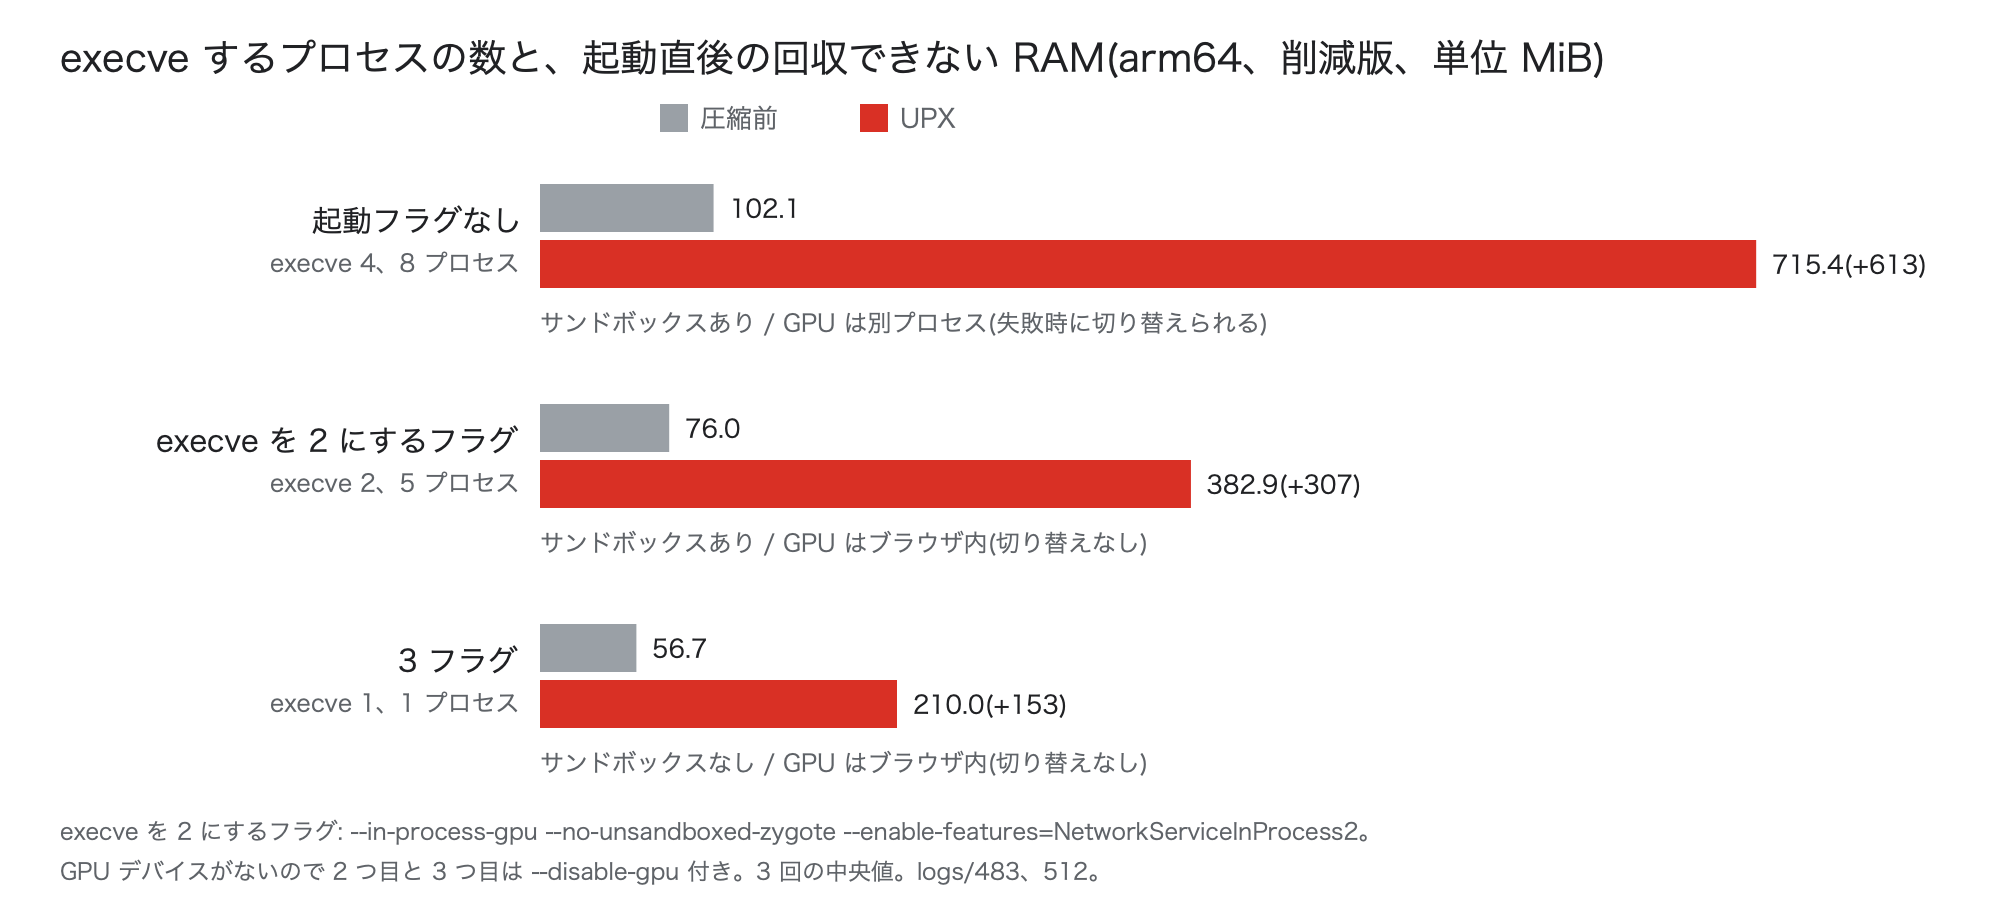
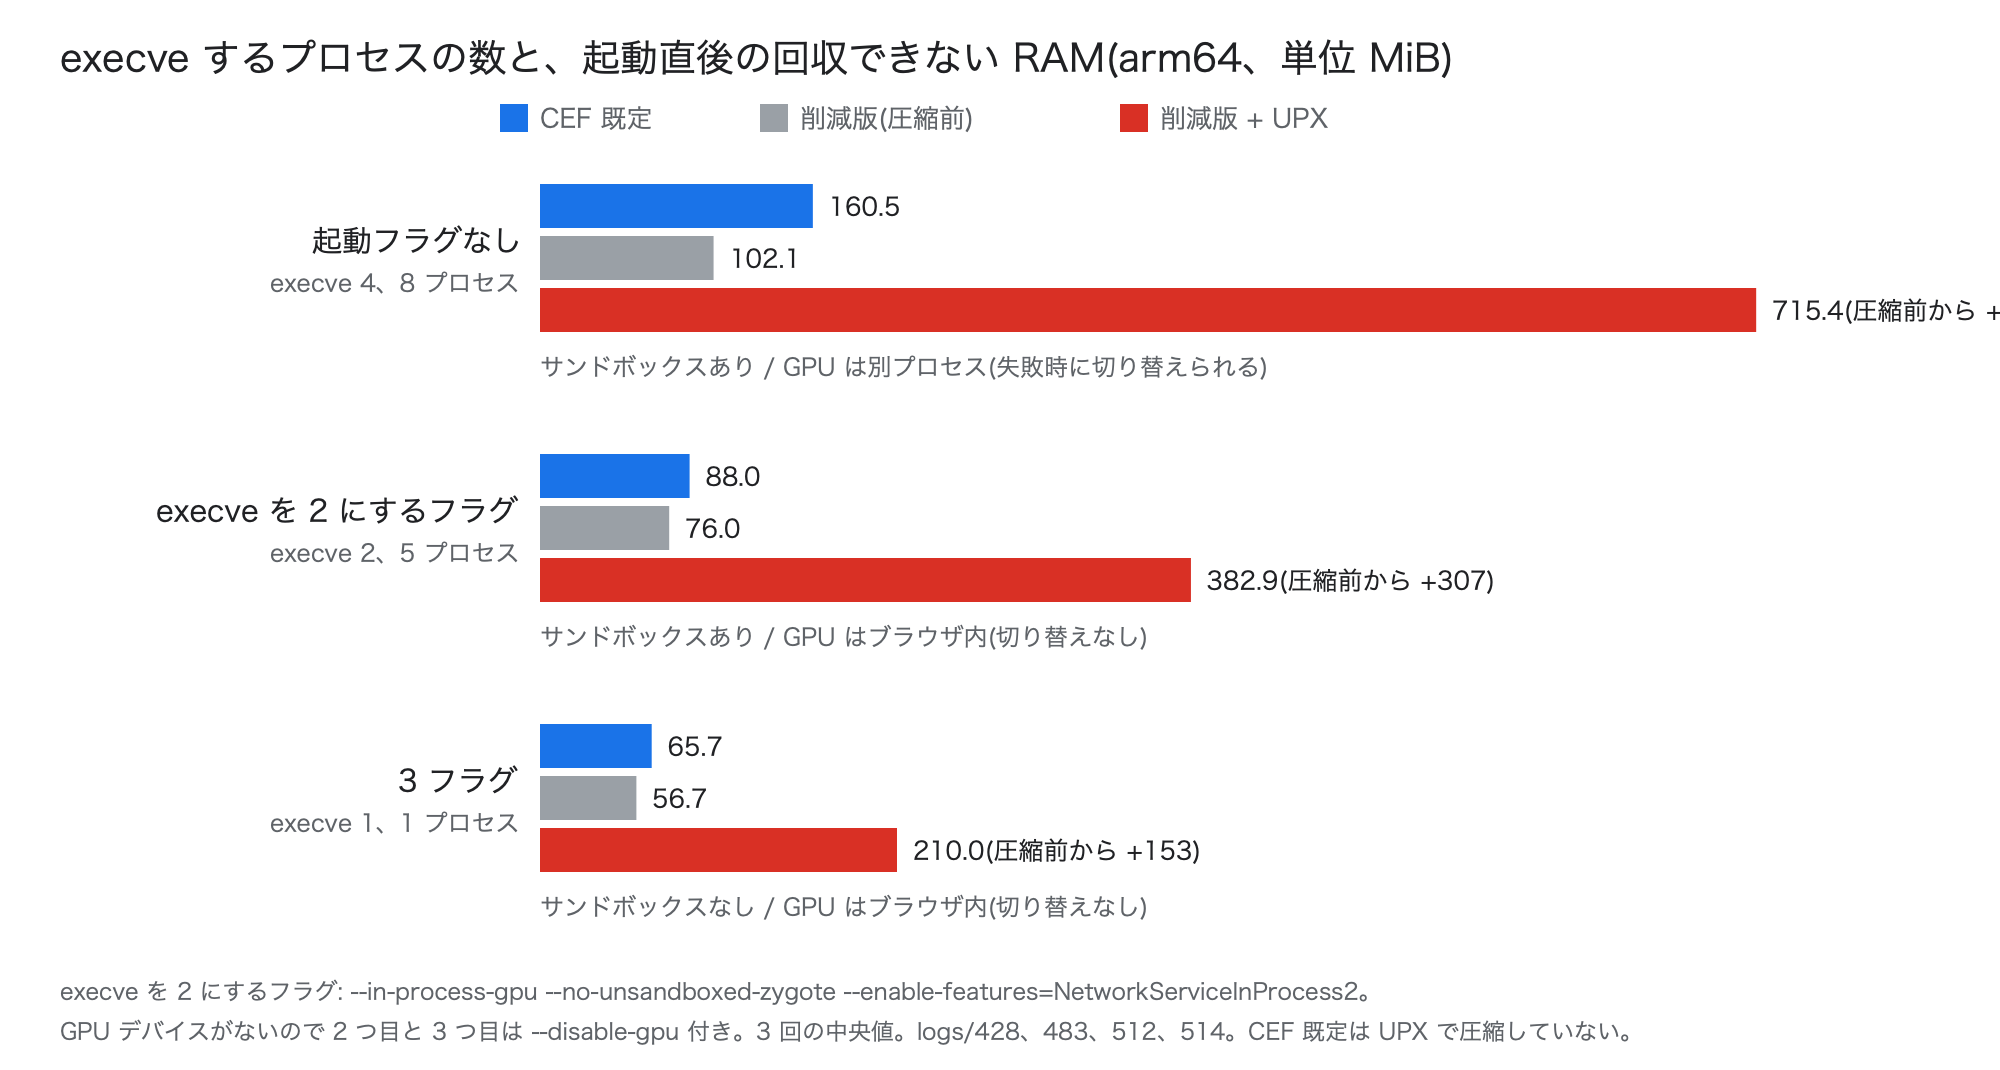
UPX の章に CEF 既定との比較を追加(図 10、14 を更新)

diff --git a/scripts/figs_upx2.py b/scripts/figs_upx2.py
@@ -89,19 +89,38 @@ b += [t(30, 300, 'UPX が縮めるのは libcef.so(186.2 → 86.0MB)と cefsimpl
       t(30, 322, 'CEF 既定の青は libcef.so と cefsimple の合計(275.1MB)。UPX 版の配布物は CEF 既定の 26% になる。', 13)]
 save('fig13-upx-rom.svg', svg(1000, 340, b))
 
-# ---- 図 14: execve するプロセスの数と回収できない RAM(起動直後)
-b = [t(30, 36, 'execve するプロセスの数と、起動直後の回収できない RAM(arm64、削減版、単位 MiB)', 19, bold=True)]
-b += [r(330, 52, 14, 14, GRY), t(350, 64, '圧縮前', 13, fill=SUB), r(430, 52, 14, 14, RED), t(450, 64, 'UPX', 13, fill=SUB)]
-rows = [('起動フラグなし', 'execve 4、8 プロセス', 102.1, 715.4, 'サンドボックスあり / GPU は別プロセス(失敗時に切り替えられる)'),
-        ('execve を 2 にするフラグ', 'execve 2、5 プロセス', 76.0, 382.9, 'サンドボックスあり / GPU はブラウザ内(切り替えなし)'),
-        ('3 フラグ', 'execve 1、1 プロセス', 56.7, 210.0, 'サンドボックスなし / GPU はブラウザ内(切り替えなし)')]
+# ---- 図 14: execve するプロセスの数と回収できない RAM(起動直後)。CEF 既定も並べる
+b = [t(30, 36, 'execve するプロセスの数と、起動直後の回収できない RAM(arm64、単位 MiB)', 19, bold=True)]
+b += [r(250, 52, 14, 14, BLUE), t(270, 64, 'CEF 既定', 13, fill=SUB), r(380, 52, 14, 14, GRY), t(400, 64, '削減版(圧縮前)', 13, fill=SUB), r(560, 52, 14, 14, RED), t(580, 64, '削減版 + UPX', 13, fill=SUB)]
+rows = [('起動フラグなし', 'execve 4、8 プロセス', 160.5, 102.1, 715.4, 'サンドボックスあり / GPU は別プロセス(失敗時に切り替えられる)'),
+        ('execve を 2 にするフラグ', 'execve 2、5 プロセス', 88.0, 76.0, 382.9, 'サンドボックスあり / GPU はブラウザ内(切り替えなし)'),
+        ('3 フラグ', 'execve 1、1 プロセス', 65.7, 56.7, 210.0, 'サンドボックスなし / GPU はブラウザ内(切り替えなし)')]
 sc = 0.85; X0 = 270
-for i, (lab, sub, a, u, note) in enumerate(rows):
-    y = 92 + i * 110
-    b += [t(X0 - 12, y + 24, lab, 15, 'end', bold=True), t(X0 - 12, y + 44, sub, 12, 'end', SUB)]
-    b += [r(X0, y, a * sc, 24, GRY), t(X0 + a * sc + 8, y + 17, f'{a}', 12.5)]
-    b += [r(X0, y + 28, u * sc, 24, RED), t(X0 + u * sc + 8, y + 45, f'{u}(+{u - a:.0f})', 12.5, bold=True)]
-    b += [t(X0, y + 74, note, 12, fill=SUB)]
-b += [t(30, 420, 'execve を 2 にするフラグ: --in-process-gpu --no-unsandboxed-zygote --enable-features=NetworkServiceInProcess2。', 11.5, fill=SUB),
-      t(30, 440, 'GPU デバイスがないので 2 つ目と 3 つ目は --disable-gpu 付き。3 回の中央値。logs/483、512。', 11.5, fill=SUB)]
-save('fig14-upx-execve.svg', svg(1000, 455, b))
+for i, (lab, sub, g, a, u, note) in enumerate(rows):
+    y = 92 + i * 135
+    b += [t(X0 - 12, y + 34, lab, 15, 'end', bold=True), t(X0 - 12, y + 54, sub, 12, 'end', SUB)]
+    b += [r(X0, y, g * sc, 22, BLUE), t(X0 + g * sc + 8, y + 16, f'{g}', 12.5)]
+    b += [r(X0, y + 26, a * sc, 22, GRY), t(X0 + a * sc + 8, y + 42, f'{a}', 12.5)]
+    b += [r(X0, y + 52, u * sc, 22, RED), t(X0 + u * sc + 8, y + 68, f'{u}(圧縮前から +{u - a:.0f})', 12.5, bold=True)]
+    b += [t(X0, y + 96, note, 12, fill=SUB)]
+b += [t(30, 500, 'execve を 2 にするフラグ: --in-process-gpu --no-unsandboxed-zygote --enable-features=NetworkServiceInProcess2。', 11.5, fill=SUB),
+      t(30, 520, 'GPU デバイスがないので 2 つ目と 3 つ目は --disable-gpu 付き。3 回の中央値。logs/428、483、512、514。CEF 既定は UPX で圧縮していない。', 11.5, fill=SUB)]
+save('fig14-upx-execve.svg', svg(1000, 535, b))
+
+# ---- 図 10: 再生中の RAM(CEF 既定、削減版、削減版 + UPX)
+b = [t(30, 38, 'H.264 1080p 再生中の RAM(arm64、単位 MiB)', 20, bold=True)]
+b += [r(300, 56, 14, 14, RED), t(320, 68, '回収できない RAM', 13, fill=SUB), r(480, 56, 14, 14, YEL), t(500, 68, 'ファイル由来の RAM', 13, fill=SUB)]
+rows = [('起動フラグなし', [('CEF 既定', 790.0, 255.8), ('削減版', 598.3, 167.3), ('削減版 + UPX', 1366.2, 32.5)]),
+        ('3 フラグ', [('CEF 既定', 661.9, 251.4), ('削減版', 537.7, 165.2), ('削減版 + UPX', 679.0, 31.9)])]
+sc = 0.42; X0 = 260; y = 92
+for gl, items in rows:
+    b += [t(30, y + 14, gl, 15, bold=True)]; y += 24
+    for lab, u, f in items:
+        b += [t(X0 - 12, y + 19, lab, 14, 'end', bold=('UPX' in lab))]
+        b += [r(X0, y, u * sc, 28, RED), r(X0 + u * sc, y, f * sc, 28, YEL)]
+        b += [t(X0 + u * sc / 2, y + 19, f'{u:,.1f}', 12.5, 'middle', '#fff', True), t(X0 + (u + f) * sc + 8, y + 19, f'+{f}(合計 {u + f:,.1f})', 12.5, fill=SUB)]
+        y += 38
+    y += 14
+b += [t(30, y + 10, '最後まで再生できた 2 回の中央値。削減版は SwiftShader なし(UPX 用の変更入り)。CEF 既定は SwiftShader で描画、削減版の 3 フラグは --disable-gpu。', 11.5, fill=SUB),
+      t(30, y + 30, 'M18(CEF 既定)、logs/484(削減版、UPX)。', 11.5, fill=SUB)]
+save('fig10-upx-ram.svg', svg(1000, int(y + 45), b))

diff --git a/docs/milestones/M22-arm64-upx.md b/docs/milestones/M22-arm64-upx.md
@@ -54,3 +54,10 @@
 - 指摘: 「UPX が候補に残るのは」は一方的。ROM と RAM のどちらを優先するかで使い分ける所見のほうがよい。実行コードのページを RAM から削らないといけないほど厳しい状態は、いつ OOM が起きてもおかしくないので、余裕を見る必要がある。
 - 既存の値から、ファイル由来の RAM も含めた増加を計算: 3 フラグ 起動直後 196.4 → 235.6(+39)、再生中 702.9 → 710.9(+8)。2 execve 起動直後 216.7 → 409.4(+193)。フラグなし 起動直後 243.5 → 742.5(+499)、再生中 765.6 → 1,398.7(+633)。
 - 記事の「UPX を使うべきか」を、2 通りの見方の表、RAM の余裕の考え方(上限の試験: 回収不可 + 約 100MB で強制終了の条件あり、+約 200MB で全条件再生)、機器の条件ごとの使い分けの表に書き直した。
+
+### CEF 既定との比較を追加(2026-11-14 08:00 JST、logs/514、ユーザー指摘「UPX の章に ROM 削減前の素の CEF との比較がない」)
+
+- logs/514: G0 の起動直後(3 回の中央値)。なし 158.9MiB(PSS 387.2、既存の logs/428 は 160.5 / 387.6)、2 execve(--disable-gpu)88.0MiB(PSS 289.1、5 プロセス、動作確認 7/7)、3 フラグ(--disable-gpu)65.7MiB(PSS 266.1、ファイル由来 208.2)。
+- 再生中(H.264 1080p)の G0 は M18 の値(なし: PSS 1,045.5、回収不可 790.0、ファイル 255.8 / 3 フラグ: 912.2、661.9、251.4。G0 は SwiftShader で描画)。
+- 削減版 + UPX + 3 フラグを CEF 既定 + 3 フラグと比べると、再生中の回収不可 661.9 → 679.0(+17)、ファイル込み 913.3 → 710.9(−202)、ROM 366.3 → 95.3MB(26%)。起動直後は 65.7 → 210.0(+144)。
+- 記事: UPX 章の ROM、起動直後、再生中、execve の表と、結果の要約に CEF 既定を追加。「CEF 既定と比べると」の小節を追加。図 10(再生中)と図 14(execve)に CEF 既定を追加。

diff --git a/README.md b/README.md
@@ -117,11 +117,13 @@ arm64(G2)は、手順 2 のあとに `patches/chromium/g2.patch` を当て、`ar
 
 回収できない RAM は、execve で起動するプロセス 1 つにつき約 153MiB 増える(展開したコードを memfd に置くため)。
 
-| 起動フラグ | execve | 起動直後の PSS 合計(圧縮前 → UPX) | 起動直後の回収できない RAM(圧縮前 → UPX) |
+| 起動フラグ | execve | 起動直後の PSS 合計(CEF 既定 / G2-tv / G2-tv + UPX) | 起動直後の回収できない RAM(CEF 既定 / G2-tv / G2-tv + UPX) |
 |---|---|---|---|
-| なし | 4 | 235.3 → 336.5MiB | 102.1 → 715.4MiB |
-| `--in-process-gpu --no-unsandboxed-zygote --enable-features=NetworkServiceInProcess2` | 2 | 208.8 → 250.7MiB | 76.0 → 382.9MiB |
-| `--single-process --no-zygote --enable-low-end-device-mode` | 1 | 188.5 → 188.5MiB | 56.7 → 210.0MiB |
+| なし | 4 | 387.6 / 235.3 / 336.5MiB | 160.5 / 102.1 / 715.4MiB |
+| `--in-process-gpu --no-unsandboxed-zygote --enable-features=NetworkServiceInProcess2` | 2 | 289.1 / 208.8 / 250.7MiB | 88.0 / 76.0 / 382.9MiB |
+| `--single-process --no-zygote --enable-low-end-device-mode` | 1 | 266.1 / 188.5 / 188.5MiB | 65.7 / 56.7 / 210.0MiB |
+
+H.264 1080p 再生中の回収できない RAM(3 フラグ): CEF 既定 661.9、G2-tv 537.7、G2-tv + UPX 679.0MiB。
 
 PSS は触ったページだけを数えるので、展開した memfd の触っていない部分は入らない。
 
